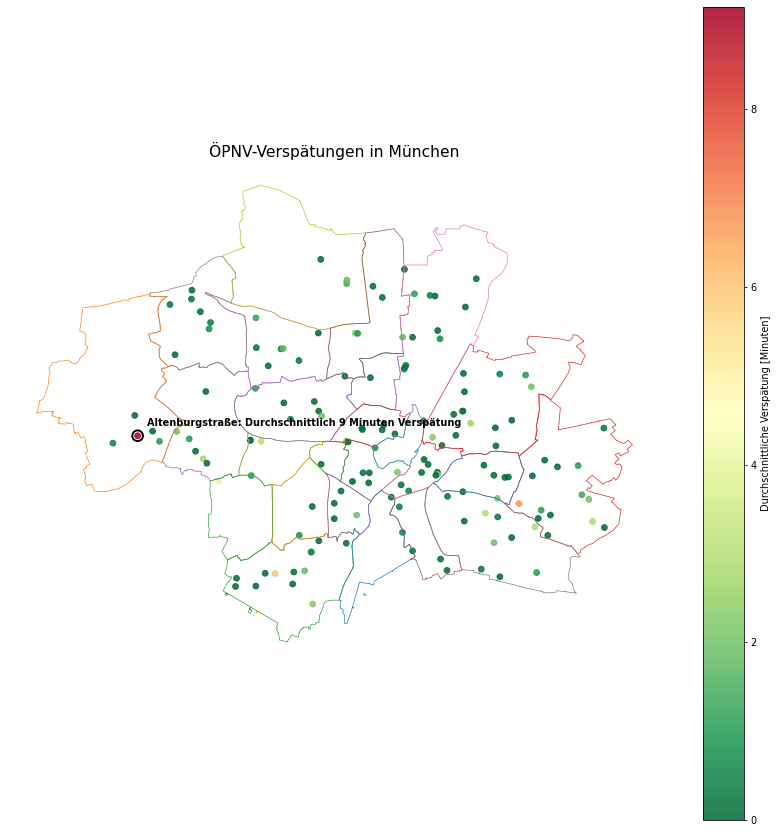
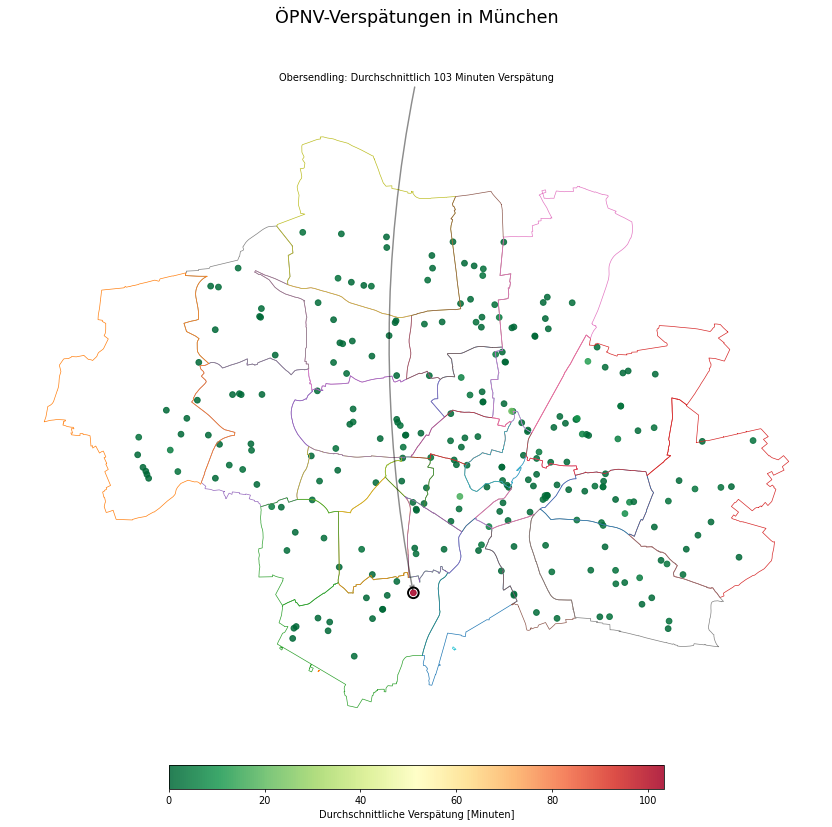
Adapted plot

diff --git a/src/mvv_delay_tracker/plotting.py b/src/mvv_delay_tracker/plotting.py
@@ -2,6 +2,7 @@ import json
 
 import matplotlib.pyplot as plt
 import pandas as pd
+
 from mvv_delay_tracker.geographic import wgs84_to_utm32
 
 
@@ -147,7 +148,6 @@ def add_utm_coordinates(
     return station_delay_df
 
 
-
 def plot_munich_boundaries(
     ax,
     munich_geojson
@@ -236,34 +236,46 @@ def mark_maximum_delay_station(
         zorder=3,
     )
 
+    annotation_text = (
+        f'{maximum_delay_station["stop_name"]}: '
+        f'Durchschnittlich '
+        f'{maximum_delay_station["delay_minutes"]:.0f} '
+        f'Minuten Verspätung'
+    )
+
     ax.annotate(
-        (
-            f'{maximum_delay_station["stop_name"]}: '
-            f'Durchschnittlich '
-            f'{maximum_delay_station["delay_minutes"]:.0f} '
-            f'Minuten Verspätung'
-        ),
+        annotation_text,
         xy=(
             maximum_delay_station["utm_x"],
             maximum_delay_station["utm_y"],
         ),
-        xytext=(10, 10),
-        textcoords="offset points",
+        xycoords="data",
+        xytext=(
+            0.5,
+            1.04
+        ),
+        textcoords="axes fraction",
+        ha="center",
+        va="bottom",
         fontsize=10,
-        fontweight="bold",
+        fontweight="normal",
+        arrowprops={
+            "arrowstyle": "->",
+            "connectionstyle": "arc3,rad=0.1",
+            "linewidth": 1.5,
+            "alpha": 0.45,
+        },
+        annotation_clip=False,
         zorder=4,
     )
 
 
-def configure_munich_delay_plot(ax):
+def configure_munich_delay_plot(
+    ax
+):
     """
-    Configure title and aspect ratio.
+    Configure aspect ratio and axis visibility.
     """
-
-    ax.set_title(
-        "ÖPNV-Verspätungen in München",
-        fontsize=16
-    )
 
     ax.set_aspect("equal")
 
@@ -281,7 +293,7 @@ def generate_plot(
 
     This function combines the complete plotting pipeline:
     loading data, calculating station delays, adding coordinates,
-    filtering stations to Munich, and generating the plot.
+    and generating the plot.
     """
 
     munich_map, delay_df = load_data(
@@ -312,6 +324,13 @@ def generate_plot(
         figsize=(12, 12)
     )
 
+    figure.suptitle(
+        "ÖPNV-Verspätungen in München",
+        fontsize=18,
+        fontweight="normal",
+        y=0.98
+    )
+
     plot_munich_boundaries(
         axis,
         munich_map
@@ -329,7 +348,10 @@ def generate_plot(
 
     colorbar = figure.colorbar(
         scatter,
-        ax=axis
+        ax=axis,
+        orientation="horizontal",
+        fraction=0.035,
+        pad=0.04
     )
 
     colorbar.set_label(
@@ -340,7 +362,9 @@ def generate_plot(
         axis
     )
 
-    figure.tight_layout()
+    figure.tight_layout(
+        rect=[0, 0, 1, 0.94]
+    )
 
     figure.savefig(
         output_path,
